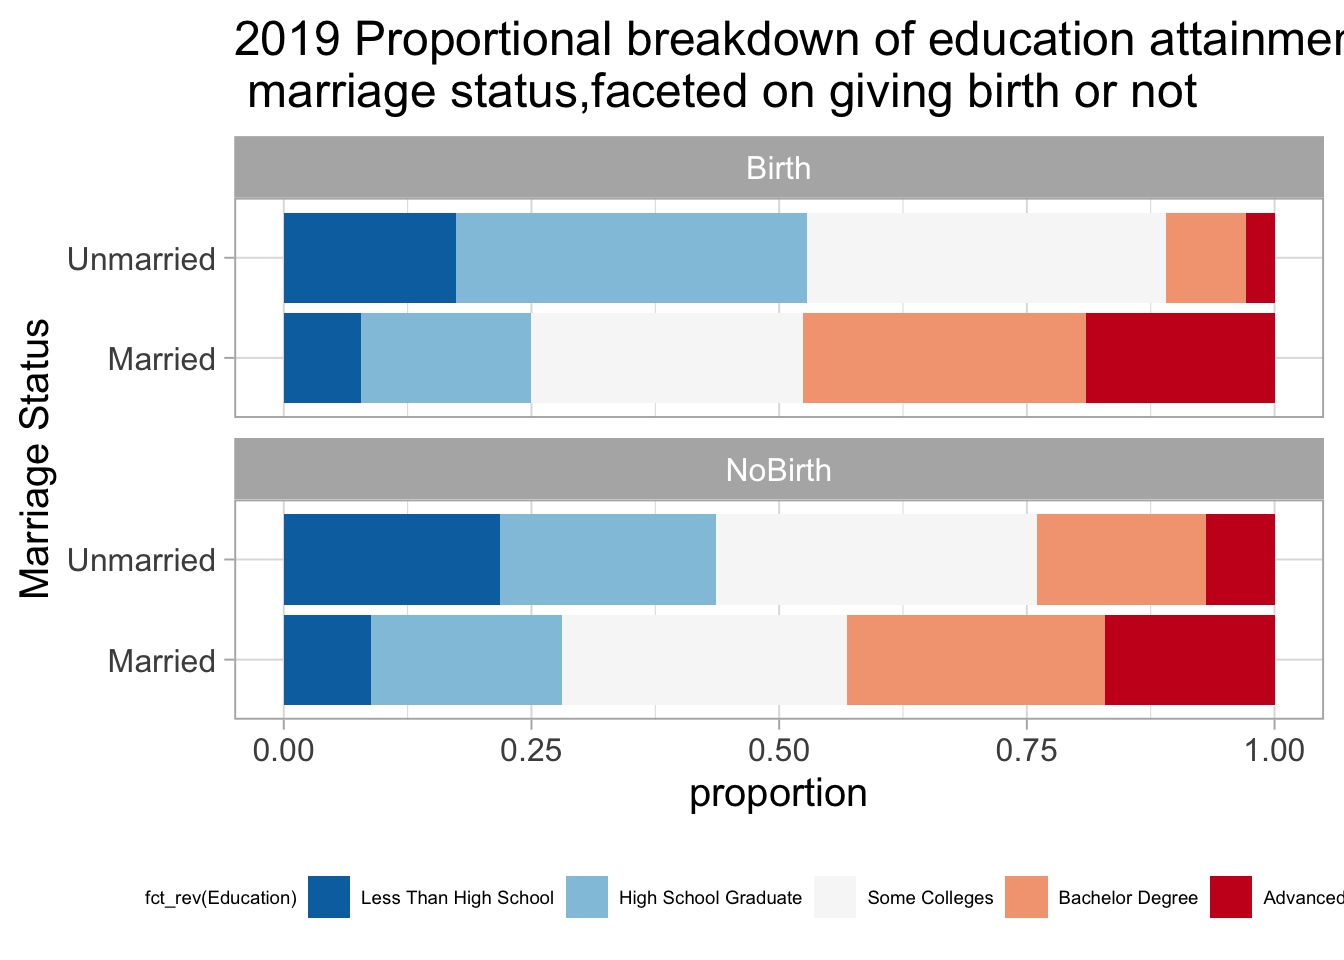
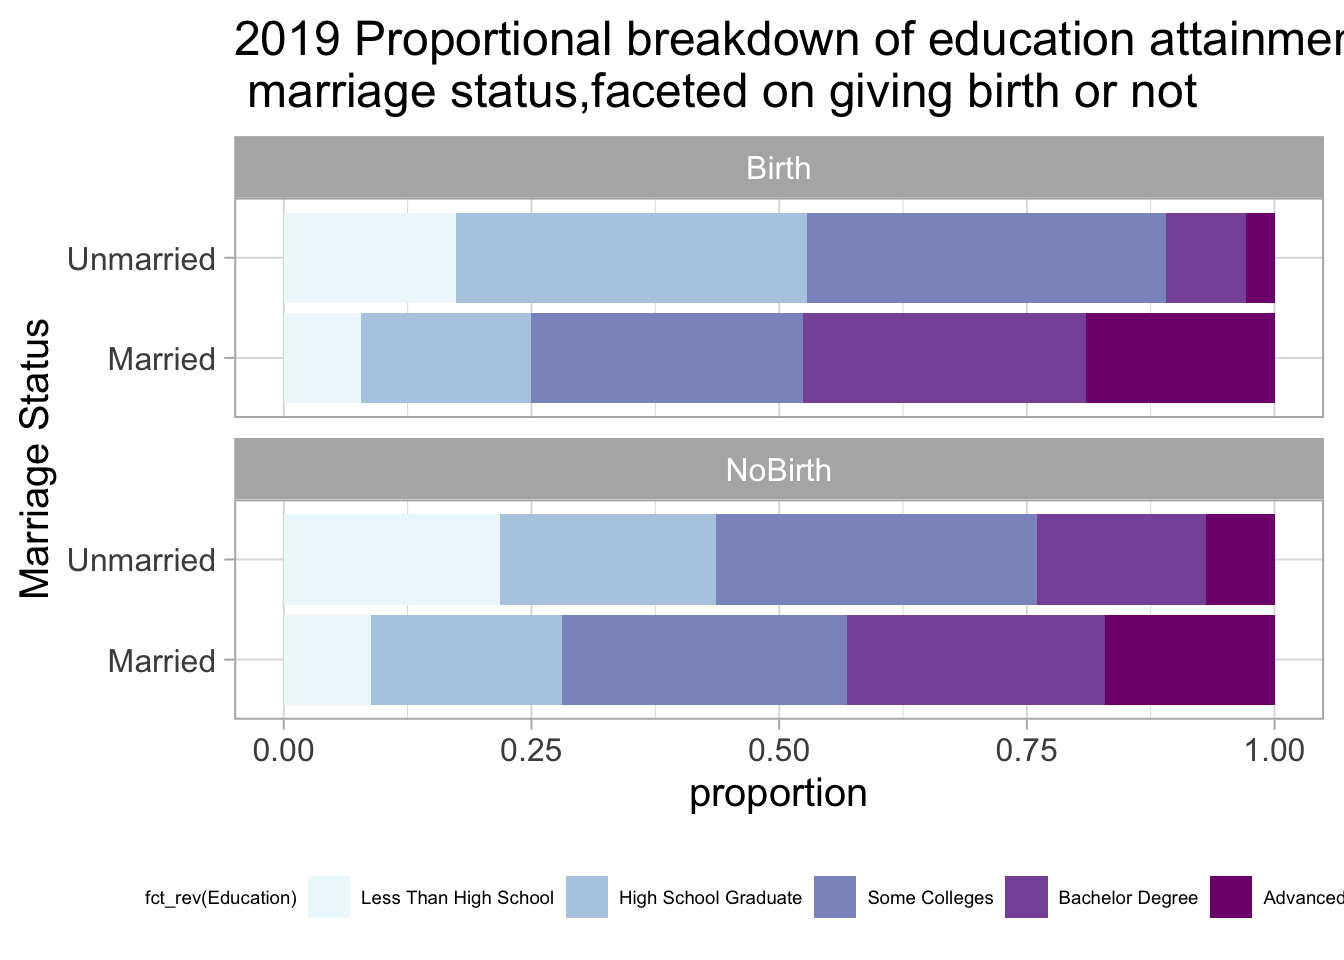
new

diff --git a/docs/interactive-component.html b/docs/interactive-component.html
@@ -24,7 +24,7 @@
 <meta name="author" content="Yifei Chen and Zujun Peng" />
 
 
-<meta name="date" content="2020-12-15" />
+<meta name="date" content="2020-12-16" />
 
   <meta name="viewport" content="width=device-width, initial-scale=1" />
   <meta name="apple-mobile-web-app-capable" content="yes" />
@@ -55,6 +55,70 @@
 <script src="libs/anchor-sections-1.0/anchor-sections.js"></script>
 
 
+<style type="text/css">
+code.sourceCode > span { display: inline-block; line-height: 1.25; }
+code.sourceCode > span { color: inherit; text-decoration: inherit; }
+code.sourceCode > span:empty { height: 1.2em; }
+.sourceCode { overflow: visible; }
+code.sourceCode { white-space: pre; position: relative; }
+pre.sourceCode { margin: 0; }
+@media screen {
+div.sourceCode { overflow: auto; }
+}
+@media print {
+code.sourceCode { white-space: pre-wrap; }
+code.sourceCode > span { text-indent: -5em; padding-left: 5em; }
+}
+pre.numberSource code
+  { counter-reset: source-line 0; }
+pre.numberSource code > span
+  { position: relative; left: -4em; counter-increment: source-line; }
+pre.numberSource code > span > a:first-child::before
+  { content: counter(source-line);
+    position: relative; left: -1em; text-align: right; vertical-align: baseline;
+    border: none; display: inline-block;
+    -webkit-touch-callout: none; -webkit-user-select: none;
+    -khtml-user-select: none; -moz-user-select: none;
+    -ms-user-select: none; user-select: none;
+    padding: 0 4px; width: 4em;
+    color: #aaaaaa;
+  }
+pre.numberSource { margin-left: 3em; border-left: 1px solid #aaaaaa;  padding-left: 4px; }
+div.sourceCode
+  {   }
+@media screen {
+code.sourceCode > span > a:first-child::before { text-decoration: underline; }
+}
+code span.al { color: #ff0000; font-weight: bold; } /* Alert */
+code span.an { color: #60a0b0; font-weight: bold; font-style: italic; } /* Annotation */
+code span.at { color: #7d9029; } /* Attribute */
+code span.bn { color: #40a070; } /* BaseN */
+code span.bu { } /* BuiltIn */
+code span.cf { color: #007020; font-weight: bold; } /* ControlFlow */
+code span.ch { color: #4070a0; } /* Char */
+code span.cn { color: #880000; } /* Constant */
+code span.co { color: #60a0b0; font-style: italic; } /* Comment */
+code span.cv { color: #60a0b0; font-weight: bold; font-style: italic; } /* CommentVar */
+code span.do { color: #ba2121; font-style: italic; } /* Documentation */
+code span.dt { color: #902000; } /* DataType */
+code span.dv { color: #40a070; } /* DecVal */
+code span.er { color: #ff0000; font-weight: bold; } /* Error */
+code span.ex { } /* Extension */
+code span.fl { color: #40a070; } /* Float */
+code span.fu { color: #06287e; } /* Function */
+code span.im { } /* Import */
+code span.in { color: #60a0b0; font-weight: bold; font-style: italic; } /* Information */
+code span.kw { color: #007020; font-weight: bold; } /* Keyword */
+code span.op { color: #666666; } /* Operator */
+code span.ot { color: #007020; } /* Other */
+code span.pp { color: #bc7a00; } /* Preprocessor */
+code span.sc { color: #4070a0; } /* SpecialChar */
+code span.ss { color: #bb6688; } /* SpecialString */
+code span.st { color: #4070a0; } /* String */
+code span.va { color: #19177c; } /* Variable */
+code span.vs { color: #4070a0; } /* VerbatimString */
+code span.wa { color: #60a0b0; font-weight: bold; font-style: italic; } /* Warning */
+</style>
 
 <link rel="stylesheet" href="style.css" type="text/css" />
 </head>
@@ -100,21 +164,139 @@
             <section class="normal" id="section-">
 <div id="interactive-component" class="section level1">
 <h1><span class="header-section-number">Chapter 6</span> Interactive component</h1>
+<div class="sourceCode" id="cb34"><pre class="sourceCode r"><code class="sourceCode r"><span id="cb34-1"><a href="interactive-component.html#cb34-1"></a>new &lt;-education <span class="op">%&gt;%</span><span class="kw">group_by</span>(Year, Education) <span class="op">%&gt;%</span></span>
+<span id="cb34-2"><a href="interactive-component.html#cb34-2"></a><span class="st">  </span><span class="kw">summarise</span>(<span class="dt">Estimate =</span> <span class="kw">sum</span>(Estimate)) <span class="op">%&gt;%</span></span>
+<span id="cb34-3"><a href="interactive-component.html#cb34-3"></a><span class="st">  </span><span class="kw">mutate</span>(<span class="dt">prop =</span> Estimate<span class="op">/</span><span class="kw">sum</span>(Estimate))<span class="op">%&gt;%</span></span>
+<span id="cb34-4"><a href="interactive-component.html#cb34-4"></a><span class="st">  </span><span class="kw">ungroup</span>()</span></code></pre></div>
+<pre><code>## `summarise()` regrouping output by &#39;Year&#39; (override with `.groups` argument)</code></pre>
+<div class="sourceCode" id="cb36"><pre class="sourceCode r"><code class="sourceCode r"><span id="cb36-1"><a href="interactive-component.html#cb36-1"></a>edu2015 &lt;-<span class="st"> </span>new<span class="op">$</span>prop[new<span class="op">$</span>Year<span class="op">==</span><span class="dv">2015</span>]</span>
+<span id="cb36-2"><a href="interactive-component.html#cb36-2"></a>edu2016 &lt;-<span class="st"> </span>new<span class="op">$</span>prop[new<span class="op">$</span>Year<span class="op">==</span><span class="dv">2016</span>]</span>
+<span id="cb36-3"><a href="interactive-component.html#cb36-3"></a>edu2017 &lt;-<span class="st"> </span>new<span class="op">$</span>prop[new<span class="op">$</span>Year<span class="op">==</span><span class="dv">2017</span>]</span>
+<span id="cb36-4"><a href="interactive-component.html#cb36-4"></a>edu2018 &lt;-<span class="st"> </span>new<span class="op">$</span>prop[new<span class="op">$</span>Year<span class="op">==</span><span class="dv">2018</span>]</span>
+<span id="cb36-5"><a href="interactive-component.html#cb36-5"></a>edu2019 &lt;-<span class="st"> </span>new<span class="op">$</span>prop[new<span class="op">$</span>Year<span class="op">==</span><span class="dv">2019</span>]</span>
+<span id="cb36-6"><a href="interactive-component.html#cb36-6"></a>eduD3 &lt;-<span class="st"> </span><span class="kw">data.frame</span>(<span class="kw">cbind</span>(edu2015,edu2016,edu2017,edu2018,edu2019))</span>
+<span id="cb36-7"><a href="interactive-component.html#cb36-7"></a><span class="co">#write.csv(eduD3,&quot;./data/eduD3.csv&quot;)</span></span>
+<span id="cb36-8"><a href="interactive-component.html#cb36-8"></a><span class="kw">attach</span>(eduD3)</span></code></pre></div>
+<pre><code>## The following objects are masked _by_ .GlobalEnv:
+## 
+##     edu2015, edu2016, edu2017, edu2018, edu2019</code></pre>
 <script src="https://d3js.org/d3.v6.js"></script>
 <p><!-- link to D3 library --></p>
+<p><input type="checkbox" id="lessHS" value="lessHS">
+<label for="vehicle1"> Less than High School</label><br>
+<input type="checkbox" id="HS" value="HS">
+<label for="vehicle2"> High School Graduate</label><br>
+<input type="checkbox" id ="associate" value="associate">
+<label for="vehicle3"> Some College or Associate Degree </label><br><br>
+<input type="checkbox" id="bachelor" value="bachelor">
+<label for="vehicle3"> Bachelor’s Degree</label><br><br>
+<input type="checkbox" id="advanced" value="advanced">
+<label for="vehicle3"> Graduate or Professional Degree</label><br><br></p>
 <div id="plot">
 
 </div>
 <script>
+  var w = 530;
+  var h = 550;
+  var margin = {top: 25, right: 0, bottom: 25,left: 30};
+  var innerWidth = w - margin.left - margin.right;
+  var innerHeight = h - margin.top - margin.bottom;
+  var lessHS = [[0.1285585,2015], [0.1254705,2016], [0.1201455,2017], [0.1167068,2018], [0.1139115,2019]];
+  var HS = [[0.2756469,2015], [0.2717640,2016], [0.2713289,2017], [0.2686960,2018], [0.2689317,2019]];
+  var associate = [[0.2897543,2015], [0.2899876,2016], [0.2886797,2017], [0.2885941,2018], [0.2858890,2019]];
+  var bachelor = [[0.1901267,2015], [0.1933507,2016], [0.1969944,2017], [0.1998540,2018], [0.2033382,2019]];
+  var advanced = [[0.1159136,2015], [0.1194270,2016], [0.1228514,2017], [0.1261490,2018], [0.1279295,2019]];
+  
+  var xScale = d3.scaleBand()
+      .domain(d3.range(2015,2020))
+      .range([0, innerWidth]);
+      
+  var yScale = d3.scaleLinear()
+      .domain([0.1, 0.3])
+      .range([innerHeight, 0])
+
+  var xAxis = d3.axisBottom()
+      .scale(xScale);
+
+  var yAxis = d3.axisLeft()
+      .scale(yScale);
   var svg =d3.select("div#plot")
       .append("svg")
-      .attr("width","400")
-      .attr("height","400");
-  svg.append("circle")
-    .attr("cx"."100")
-    .attr("cy","200")
-    .attr("r","50")
-    .attr("fill","red");
+      .attr("width",w)
+      .attr("height",h);
+      
+  var mylinegen = d3.line()
+  
+  mylinegen
+    .x(d => xScale(d[1])+50)
+    .y(d => yScale(d[0]));
+ 
+  svg.append("g")
+      .attr("class", "xAxis")
+      .attr("transform", `translate (${margin.left}, ${h - margin.bottom})`)
+      .call(xAxis);
+
+  svg.append("g")
+      .attr("class", "yAxis")
+      .attr("transform", `translate (${margin.left}, ${margin.top})`)
+      .call(yAxis);
+      
+    d3.select("#lessHS").on("change",update1);
+    d3.select("#HS").on("change",update2);
+    d3.select("#associate").on("change",update3);
+    d3.select("#bachelor").on("change",update4);
+    d3.select("#advanced").on("change",update5);
+  
+  function drawline(data,ID,color,svg_){
+    var mypath = mylinegen(data);
+    svg_.append("g")
+                .attr("id",ID)
+        .attr("transform", `translate (${margin.left}, ${margin.top})`)
+        .append("path")
+        .attr("d", mypath)
+        .attr("fill", "none").attr("stroke", color)
+        .attr("stroke-width", "3");
+  }
+    function update1(){
+          if(d3.select("input#lessHS").property("checked")){
+            drawline(lessHS,"lesshs","#edf8fb",svg);
+          }else{
+            svg.select("#lesshs").remove();
+          }
+    };
+    
+    function update2(){
+      if(d3.select("input#HS").property("checked")){
+            drawline(HS,"hs","#b3cde3",svg);
+        }else{
+            svg.select("#hs").remove();
+        }
+    };
+    function update3(){
+      if(d3.select("input#associate").property("checked")){
+            drawline(associate,"associated","#8c96c6",svg);
+        }else{
+        svg.select("#associated").remove();
+        
+        }
+    };
+    function update4(){
+      if(d3.select("input#bachelor").property("checked")){
+            drawline(bachelor,"bachelors","#8856a7",svg);
+        }else{
+        svg.select("#bachelors").remove();
+        
+        }
+    };
+    function update5(){
+      if(d3.select("input#advanced").property("checked")){
+            drawline(advanced,"advance","#810f7c",svg);
+        }else{
+        svg.select("#advance").remove();
+        
+        }
+    };
+
 </script>
 
 </div>

diff --git a/docs/results.html b/docs/results.html
@@ -24,7 +24,7 @@
 <meta name="author" content="Yifei Chen and Zujun Peng" />
 
 
-<meta name="date" content="2020-12-15" />
+<meta name="date" content="2020-12-16" />
 
   <meta name="viewport" content="width=device-width, initial-scale=1" />
   <meta name="apple-mobile-web-app-capable" content="yes" />
@@ -241,7 +241,7 @@ code span.wa { color: #60a0b0; font-weight: bold; font-style: italic; } /* Warni
 <span id="cb21-8"><a href="results.html#cb21-8"></a><span class="st">  </span><span class="kw">guides</span>(<span class="dt">fill =</span> <span class="kw">guide_legend</span>(<span class="dt">reverse =</span> <span class="ot">TRUE</span>)) <span class="op">+</span></span>
 <span id="cb21-9"><a href="results.html#cb21-9"></a><span class="st">  </span><span class="kw">facet_wrap</span>(<span class="op">~</span>Education, <span class="dt">ncol =</span> <span class="dv">1</span>) <span class="op">+</span></span>
 <span id="cb21-10"><a href="results.html#cb21-10"></a><span class="st">  </span><span class="kw">ylab</span>(<span class="st">&quot;proportion&quot;</span>) <span class="op">+</span></span>
-<span id="cb21-11"><a href="results.html#cb21-11"></a><span class="st">  </span><span class="kw">scale_fill_brewer</span>(<span class="dt">palette =</span> <span class="st">&quot;RdGy&quot;</span>) <span class="op">+</span><span class="st"> </span></span>
+<span id="cb21-11"><a href="results.html#cb21-11"></a><span class="st">  </span><span class="kw">scale_fill_brewer</span>(<span class="dt">palette =</span> <span class="st">&quot;BuPu&quot;</span>) <span class="op">+</span><span class="st"> </span></span>
 <span id="cb21-12"><a href="results.html#cb21-12"></a><span class="st">  </span><span class="kw">ggtitle</span>(<span class="st">&quot;Proportional breakdown of Gender for each race, faceted on Education Attainment&quot;</span>)</span></code></pre></div>
 <p><img src="bookdownproj_files/figure-html/unnamed-chunk-20-1.png" width="672" /></p>
 <div class="sourceCode" id="cb22"><pre class="sourceCode r"><code class="sourceCode r"><span id="cb22-1"><a href="results.html#cb22-1"></a><span class="co">#add legend！！！</span></span>
@@ -269,7 +269,7 @@ code span.wa { color: #60a0b0; font-weight: bold; font-style: italic; } /* Warni
 <span id="cb23-7"><a href="results.html#cb23-7"></a><span class="st">  </span><span class="kw">theme_light</span>(<span class="dv">15</span>)<span class="op">+</span></span>
 <span id="cb23-8"><a href="results.html#cb23-8"></a><span class="st">  </span><span class="kw">theme</span>(<span class="dt">legend.position =</span> <span class="st">&quot;bottom&quot;</span>) <span class="op">+</span></span>
 <span id="cb23-9"><a href="results.html#cb23-9"></a><span class="st">  </span><span class="kw">guides</span>(<span class="dt">fill =</span> <span class="kw">guide_legend</span>(<span class="dt">reverse =</span> <span class="ot">TRUE</span>)) <span class="op">+</span></span>
-<span id="cb23-10"><a href="results.html#cb23-10"></a><span class="st">  </span><span class="kw">scale_fill_brewer</span>(<span class="dt">palette =</span> <span class="st">&quot;RdBu&quot;</span>)<span class="op">+</span></span>
+<span id="cb23-10"><a href="results.html#cb23-10"></a><span class="st">  </span><span class="kw">scale_fill_brewer</span>(<span class="dt">palette =</span> <span class="dv">3</span>,<span class="dt">direction =</span> <span class="dv">-1</span>)<span class="op">+</span></span>
 <span id="cb23-11"><a href="results.html#cb23-11"></a><span class="st">  </span><span class="kw">theme</span>(<span class="dt">legend.title =</span> <span class="kw">element_text</span>(<span class="dt">size =</span> <span class="dv">7</span>),<span class="dt">legend.text =</span> <span class="kw">element_text</span>(<span class="dt">size=</span><span class="dv">7</span>))<span class="op">+</span></span>
 <span id="cb23-12"><a href="results.html#cb23-12"></a><span class="st">  </span><span class="kw">facet_wrap</span>(<span class="op">~</span>Give_birth, <span class="dt">ncol =</span> <span class="dv">1</span>)<span class="op">+</span></span>
 <span id="cb23-13"><a href="results.html#cb23-13"></a><span class="st">  </span><span class="kw">ylab</span>(<span class="st">&quot;proportion&quot;</span>) <span class="op">+</span></span>

diff --git a/docs/index.html b/docs/index.html
@@ -24,7 +24,7 @@
 <meta name="author" content="Yifei Chen and Zujun Peng" />
 
 
-<meta name="date" content="2020-12-15" />
+<meta name="date" content="2020-12-16" />
 
   <meta name="viewport" content="width=device-width, initial-scale=1" />
   <meta name="apple-mobile-web-app-capable" content="yes" />
@@ -165,7 +165,7 @@ code span.wa { color: #60a0b0; font-weight: bold; font-style: italic; } /* Warni
 <div id="header">
 <h1 class="title">Education Attainment in the US</h1>
 <p class="author"><em>Yifei Chen and Zujun Peng</em></p>
-<p class="date"><em>2020-12-15</em></p>
+<p class="date"><em>2020-12-16</em></p>
 </div>
 <div id="introduction" class="section level1">
 <h1><span class="header-section-number">Chapter 1</span> Introduction</h1>

diff --git a/docs/conclustion.html b/docs/conclustion.html
@@ -24,7 +24,7 @@
 <meta name="author" content="Yifei Chen and Zujun Peng" />
 
 
-<meta name="date" content="2020-12-15" />
+<meta name="date" content="2020-12-16" />
 
   <meta name="viewport" content="width=device-width, initial-scale=1" />
   <meta name="apple-mobile-web-app-capable" content="yes" />

diff --git a/docs/data-cleaning.html b/docs/data-cleaning.html
@@ -24,7 +24,7 @@
 <meta name="author" content="Yifei Chen and Zujun Peng" />
 
 
-<meta name="date" content="2020-12-15" />
+<meta name="date" content="2020-12-16" />
 
   <meta name="viewport" content="width=device-width, initial-scale=1" />
   <meta name="apple-mobile-web-app-capable" content="yes" />

diff --git a/docs/data-sources.html b/docs/data-sources.html
@@ -24,7 +24,7 @@
 <meta name="author" content="Yifei Chen and Zujun Peng" />
 
 
-<meta name="date" content="2020-12-15" />
+<meta name="date" content="2020-12-16" />
 
   <meta name="viewport" content="width=device-width, initial-scale=1" />
   <meta name="apple-mobile-web-app-capable" content="yes" />

diff --git a/docs/missing-values.html b/docs/missing-values.html
@@ -24,7 +24,7 @@
 <meta name="author" content="Yifei Chen and Zujun Peng" />
 
 
-<meta name="date" content="2020-12-15" />
+<meta name="date" content="2020-12-16" />
 
   <meta name="viewport" content="width=device-width, initial-scale=1" />
   <meta name="apple-mobile-web-app-capable" content="yes" />
